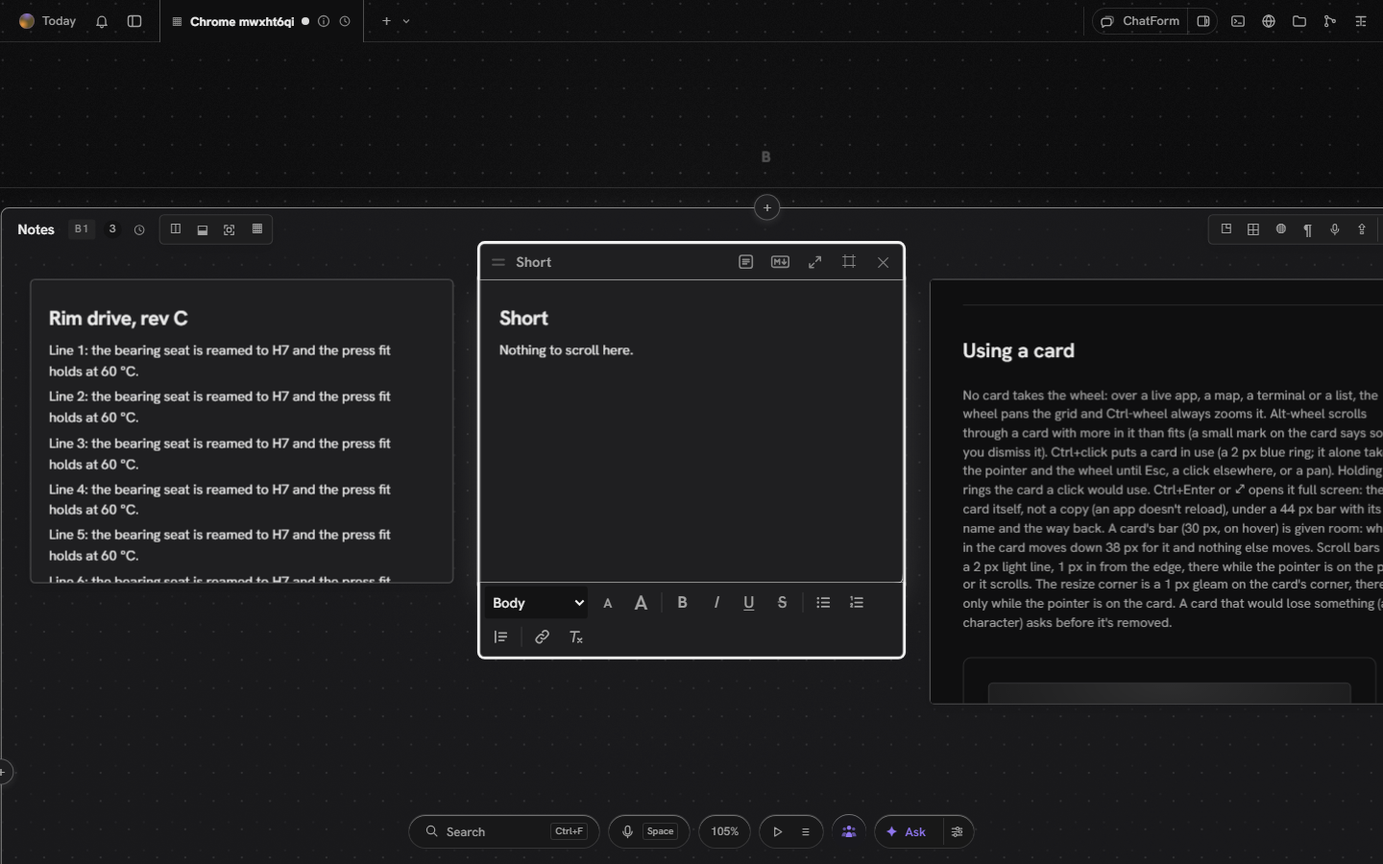
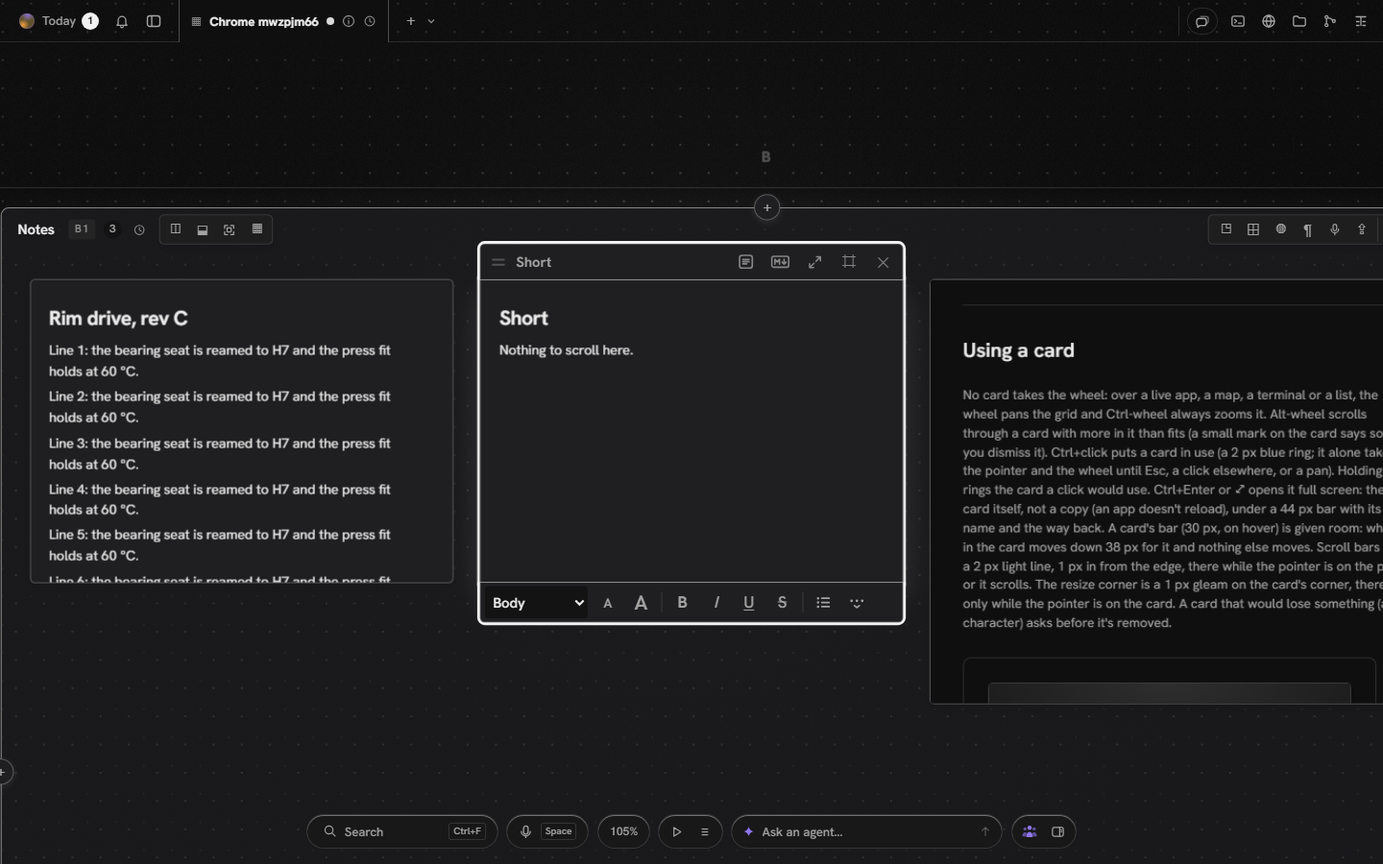
A terminal's card holds still under its bar; a narrow note's format bar fits its card again
Plan: card-chrome-elsewhere (part).

- A machine's card (a terminal, a desktop) gets the rising bar a note and a
  chat card have: the bar grows up out of the box and nothing inside
  moves, so a terminal's last line, where you type, no longer slides 38 px
  under the card's edge while it's hovered.
- Found on the way: a narrow note's one-line format bar (2026-11-26) ran up
  to 7 px past the card's right edge. Its fit counted each item's box but
  not its margins (a separator's 3 + 3, the size picker's 3). It counts
  them now; checked at 420 down to 240 px, the bar the card's width.
- e2e/card-chrome.spec is 8/8 again: a terminal check added; the rising
  bar is read once it has stopped moving; two checks that predated the
  2026-11-26 'box grown up' bar (flush inside the card's 1 px border) now
  hold that design; the card and its toolbar are read on one frame.

Checked: card-chrome.spec 8 passing; client 424 and typecheck green; in
the browser on fresh data, the toolbar width at six note widths. Not
looked at: Slack, huddle, kanban, file cards; the frame-rate check; a Mac
and a trackpad.

diff --git a/apps/client/e2e/card-chrome.spec.ts b/apps/client/e2e/card-chrome.spec.ts
@@ -21,6 +21,7 @@
  *     markdown. Every other card's bar still makes room: a live app's content
  *     moves down 38 px, its document neither reloaded nor resized, and a
  *     chapter card gets shorter from the top.
+ *     A terminal (a machine's card) holds still as a note does (2026-11-27): its bar rises over the card.
  *  2b. A chat card's bar rises the same way, and its paper comes off and back
  *     (`bare`, the note's button) with every layer of it.
  *  3. Alt-wheel (since 2026-11-17; it was Ctrl-wheel for a day) scrolls through a card with more in it than fits (a note, a
@@ -78,6 +79,19 @@ const world = (p: Page) => p.evaluate(() => document.querySelector<HTMLElement>(
 const zoomOf = (t: string) => Number(/scale\(([\d.]+)\)/.exec(t)?.[1] ?? NaN);
 /** the scale a card is drawn at on screen (zoom × its section's fit) */
 const scaleOf = (p: Page, id: string) => slot(p, id).locator(".frame-card").first().evaluate((el) => el.getBoundingClientRect().width / (el as HTMLElement).offsetWidth);
+/** a rising bar comes up 6 px as it fades in: read it once it has stopped moving, not when it's merely opaque */
+async function settled(p: Page, sel: string) {
+  let last = "";
+  await expect
+    .poll(async () => {
+      const now = JSON.stringify(await rect(p, sel));
+      const same = now === last;
+      last = now;
+      return same;
+    }, { timeout: 5_000, intervals: [120] })
+    .toBe(true);
+  return rect(p, sel);
+}
 const rect = (p: Page, sel: string) =>
   p.locator(sel).first().evaluate((el) => {
     const r = el.getBoundingClientRect();
@@ -109,6 +123,9 @@ test.beforeAll(async ({ browser }) => {
   await tool("add_section", { name: "Apps" });
   await tool("add_note", { section: "Apps", title: "Beside", markdown: "A note, so the app is a card and not the section's app." });
   await tool("add_panel", { section: "Apps", panel: "app", name: "Live", url: FRAME });
+  await tool("add_section", { name: "Machines" });
+  await tool("add_note", { section: "Machines", title: "Beside the terminal", markdown: "A note, so the terminal is a card and not the section's own." });
+  await tool("add_panel", { section: "Machines", panel: "machine", name: "Term", url: "http://127.0.0.1:9/ttyd" });
   await tool("add_section", { name: "Chat" });
   await tool("add_note", { section: "Chat", title: "Beside chat", markdown: "A note, so the chat is a card and not the section's own." });
   // a character, on this board: a card in "Characters · Animals"
@@ -133,7 +150,7 @@ test.beforeAll(async ({ browser }) => {
       },
     });
   });
-  for (const n of ["Long", "Short", "Beside", "Live", "Taro", "Design · cards", "Talk"]) {
+  for (const n of ["Long", "Short", "Beside", "Live", "Taro", "Design · cards", "Talk", "Term"]) {
     await expect.poll(() => find(ada, n), { message: `the card “${n}”` }).not.toBeNull();
     ids[n] = (await find(ada, n))!;
   }
@@ -290,8 +307,11 @@ test("2 · a note's bar is its box grown up and the note holds still; its toolba
   await expect(toolbar).toBeVisible();
   await settle(ada, 500);
   expect(await words()).toEqual(still);
-  const card = await rect(ada, sel(ids.Short, ".frame-card"));
-  const tb = await rect(ada, sel(ids.Short, ".rich-bar"));
+  // the card and its toolbar, read on one frame
+  const [card, tb] = await ada.evaluate(([a, b]) => [a, b].map((q) => {
+    const r = document.querySelector(q)!.getBoundingClientRect();
+    return { x: r.x, y: r.y, w: r.width, h: r.height, bottom: r.bottom, right: r.right };
+  }), [sel(ids.Short, ".frame-card"), sel(ids.Short, ".rich-bar")]);
   // at least 40 tall (a narrow note's takes a second row), flush on the card's foot, the card's width
   expect(tb.h).toBeGreaterThanOrEqual(40 * kw - 1);
   near(tb.y, card.bottom - 1 * kw, 1.5);
@@ -330,6 +350,22 @@ test("2 · a note's bar is its box grown up and the note holds still; its toolba
   const d1 = await rect(ada, sel(ids["Design · cards"], ".panel-inner"));
   near(d1.y - d0.y, PUSH * kd, 1);
   near(d1.bottom, d0.bottom, 1);
+  await leave(ada);
+
+  // a terminal (a machine's card) holds still like a note (2026-11-27, plan card-chrome-elsewhere): its bar rises over
+  // the card and nothing in it moves, so its last line, where you type, never slides under the card's edge
+  await frame(ada, ids.Term);
+  await settle(ada, 600);
+  await expect(slot(ada, ids.Term).locator(".frame-anchor")).toHaveClass(/bar-rise/);
+  const t0 = { inner: await rect(ada, sel(ids.Term, ".panel-inner")), card: await rect(ada, sel(ids.Term, ".frame-card")) };
+  await hover(ada, ids.Term);
+  await expect(slot(ada, ids.Term).locator(".frame-header")).toHaveCSS("opacity", "1");
+  const t1 = { bar: await settled(ada, sel(ids.Term, ".frame-header")), inner: await rect(ada, sel(ids.Term, ".panel-inner")), card: await rect(ada, sel(ids.Term, ".frame-card")) };
+  expect(t1.inner).toEqual(t0.inner);
+  expect(t1.card).toEqual(t0.card);
+  // the box grown up: flush on the card's top edge, inside its 1 px border
+  near(t1.bar.bottom, t1.card.y + 1 * (await scaleOf(ada, ids.Term)), 0.75);
+  await ada.screenshot({ path: `${RISE_SHOTS}/05_terminal-holds-still-night.png` });
   await leave(ada);
 
   // a live app: its frame slides down, and its document is neither reloaded nor resized
@@ -377,9 +413,10 @@ test("2b · a chat card's bar rises the same way, and its paper comes off and ba
   await hover(ada, id);
   await expect(s.locator(".frame-header")).toHaveCSS("opacity", "1");
   expect(await read()).toEqual(rest);
-  const bar = await rect(ada, sel(id, ".frame-header"));
+  const bar = await settled(ada, sel(id, ".frame-header"));
   near(bar.h, RISE.h * k, 1);
-  expect(bar.bottom).toBeLessThanOrEqual(rest.card.y + 0.5);
+  // flush on the card's top edge, inside its 1 px border (the box grown up, 2026-11-26)
+  near(bar.bottom, rest.card.y + 1 * k, 0.75);
   await ada.screenshot({ path: `${RISE_SHOTS}/05_chat-bar-risen-night.png` });
 
   // the note's button, words and glyph: Hide the background
@@ -712,7 +749,8 @@ test("day and night: the board's cards and #/design", async ({ browser }) => {
     const held = demo.locator(".frame-anchor.is-hover").first();
     const [hb, hc] = [(await held.locator(".frame-header").boundingBox())!, (await held.locator(".frame-card").boundingBox())!];
     near(hb.height, RISE.h, 0.75);
-    expect(hb.y + hb.height).toBeLessThanOrEqual(hc.y);
+    // the box grown up (2026-11-26): flush on the card's top edge, inside its 1 px border
+    near(hb.y + hb.height, hc.y + 1, 0.75);
     const tb = (await demo.locator(".rich-bar-slot.is-under .rich-bar").boundingBox())!;
     near(tb.height, 40, 0.75);
     await settle(p, 500);

diff --git a/apps/client/src/components/RichText.tsx b/apps/client/src/components/RichText.tsx
@@ -465,8 +465,14 @@ function useToolbarFit(keys: string[], paused: boolean) {
     // what's on the line now, in order (the More button, its menu, last)
     const kids = Array.from(bar.children) as HTMLElement[];
     // the line is always the first items, in order
+    // an item's room on the line is its box and its margins (a separator's 3 + 3, the size picker's 3): without
+    // them a narrow note's line ran a few px past the card's edge (2026-11-27, e2e/card-chrome.spec)
+    const span = (el: HTMLElement) => {
+      const cs = getComputedStyle(el);
+      return el.offsetWidth + (parseFloat(cs.marginLeft) || 0) + (parseFloat(cs.marginRight) || 0);
+    };
     kids.forEach((el, i) => {
-      if (i < ks.length && !el.matches("[data-rich-more], .rich-more-menu")) widths.current.set(ks[i], el.offsetWidth);
+      if (i < ks.length && !el.matches("[data-rich-more], .rich-more-menu")) widths.current.set(ks[i], span(el));
     });
     const bs = getComputedStyle(bar);
     const hs = getComputedStyle(holder);
@@ -477,7 +483,8 @@ function useToolbarFit(keys: string[], paused: boolean) {
     const all = ks.reduce((s, key) => s + w(key), 0) + gap * (ks.length - 1);
     let n = ks.length;
     if (all > room) {
-      const moreW = (bar.querySelector<HTMLElement>("[data-rich-more]")?.offsetWidth ?? 32) + gap;
+      const moreEl = bar.querySelector<HTMLElement>("[data-rich-more]");
+      const moreW = (moreEl ? span(moreEl) : 32) + gap;
       let used = 0;
       n = 0;
       while (n < ks.length) {

diff --git a/apps/client/src/panels/PanelView.tsx b/apps/client/src/panels/PanelView.tsx
@@ -253,7 +253,9 @@ export const PanelView = memo(function PanelView({ panel, pos, isActive, getScal
       bodyClass={`panel-body panel-${panel.panel}`}
       cardClass={`panel-card kind-${panel.panel}${panel.status ? ` status-${panel.status}` : ""}${chat && panel.bare ? " is-bare" : ""}`}
       // a chat card's bar rises above it and the conversation holds still, as a note's does (2026-11-25)
-      barRise={chat}
+      // a terminal or a desktop keeps still too (2026-11-27, plan card-chrome-elsewhere): its bar rises over the
+      // card, so its last line (where you type) never slides under the card's edge while it's hovered
+      barRise={chat || panel.panel === "machine"}
       data={{ "panel-id": panel.id }}
       openUrl={panel.url}
       overlay={panel.ports.length ? <div className="port-rail">{ports}</div> : null}

diff --git a/SPEC.md b/SPEC.md
@@ -2,7 +2,7 @@
 
 > The company brain of Form Industries: one shared grid where people, the apps we build, and the agents that work with us meet. This document is the plan every session (human or agent) builds from. **DESIGN.md** is its visual contract. Status is honest: _done_ means it ran and was checked; _partial_ and _stub_ say what's missing.
 
-Last updated 2026-11-27 (an agent's answer under its bar on the grid's council; a viewer on the studio's pipeline checked in a browser; the council's conversation kept on the server with each agent's answer, §3; Rune holds 60 fps on 300 notes, level with the web renderer, §7; the server panel says when the server runs older code than the app, with Restart, §7; a sub-grid put back into its section, the undo of Open as its own grid, and hosted-app sections offer it, §3; pings: a sound, the bell opening the card, Ping in the right-click, who has worked on a grid, §0.25; the updates panel keeps the whole release history, this app's version set large with its latest changes, §0.24; note pages: a note of its own in the side menu's Notes, the same note on any grid, written in blocks, docs/notes.md; the grid behind the grid: the agents' work trail after agenttrail, T3's agents told who else is at work, §0.23; the timeline live and whole, a note and a chat card as one box, §0.22; the timeline of every grid and section, voice and video notes, menus that rise and a chat card without its paper §0.21; a run's trace on the council, the silhouette that adds, CAD cards fed by an app, card copy and paste §0.19; main and the edges branch brought together; one note: the text box and the markdown note are the same card, §3; the council at work, kinds of agent and code mode §0.17; whole-app usability, legibility, spacing & motion pass §0.15; ChatForm second round §0.14; progressive cached images & hosted ChatForm readiness §0.13) · **0.3.0** (`docs/blog/0.3.0.md`; the desktop app updates itself from here on, and from 2026-11-13 every push to `main` publishes the next desktop release by itself) · branch `main` · evidence in `docs/evidence/` (latest: `2026-11-22_usability-pass/`, §0.15) · release notes in `docs/blog/` and Settings → Releases · **the plan is a kanban board**: `docs/plan.json`, GitHub issues, and Settings → Plan in the app (§8)
+Last updated 2026-11-27 (a terminal's card holds still under its bar, and a narrow note's format bar fits its card again; an agent's answer under its bar on the grid's council; a viewer on the studio's pipeline checked in a browser; the council's conversation kept on the server with each agent's answer, §3; Rune holds 60 fps on 300 notes, level with the web renderer, §7; the server panel says when the server runs older code than the app, with Restart, §7; a sub-grid put back into its section, the undo of Open as its own grid, and hosted-app sections offer it, §3; pings: a sound, the bell opening the card, Ping in the right-click, who has worked on a grid, §0.25; the updates panel keeps the whole release history, this app's version set large with its latest changes, §0.24; note pages: a note of its own in the side menu's Notes, the same note on any grid, written in blocks, docs/notes.md; the grid behind the grid: the agents' work trail after agenttrail, T3's agents told who else is at work, §0.23; the timeline live and whole, a note and a chat card as one box, §0.22; the timeline of every grid and section, voice and video notes, menus that rise and a chat card without its paper §0.21; a run's trace on the council, the silhouette that adds, CAD cards fed by an app, card copy and paste §0.19; main and the edges branch brought together; one note: the text box and the markdown note are the same card, §3; the council at work, kinds of agent and code mode §0.17; whole-app usability, legibility, spacing & motion pass §0.15; ChatForm second round §0.14; progressive cached images & hosted ChatForm readiness §0.13) · **0.3.0** (`docs/blog/0.3.0.md`; the desktop app updates itself from here on, and from 2026-11-13 every push to `main` publishes the next desktop release by itself) · branch `main` · evidence in `docs/evidence/` (latest: `2026-11-22_usability-pass/`, §0.15) · release notes in `docs/blog/` and Settings → Releases · **the plan is a kanban board**: `docs/plan.json`, GitHub issues, and Settings → Plan in the app (§8)
 
 ---
 
@@ -838,7 +838,7 @@ Native full OS VMs (2026-11-20, Josh): **implemented / Review; real QEMU runs on
 | **One note** (2026-11-24, Josh: "the note object and the markdown object should be the same object … WYSIWYG features for the primary interface … a markdown option at the top right … the size of the text … an icon that allows you to make the background invisible. Please convert any note or markdown note to this format") | **There is one note.** The *Text box* (formatted text) and the *Markdown note* (source, opened by a double-click) were always one card with one markdown text under them, told apart by a flag (`NoteDoc.rich`). The flag is retired: every note is written as formatted text, in place, with the toolbar (`components/RichText.tsx`), and is kept as markdown in the note's shared text. **Markdown** is a button in the card's bar, at its right: it turns the card to its markdown (CodeMirror on the same shared text, per keystroke, named carets, your own undo; `components/noteEditor.ts`) and back; it stays up until the button, Esc or ⌘↵, and it is this window's view, so one person can read the markdown while another writes the formatted text. A viewer can look. **Text size** is in the toolbar (a small A, a large A): five steps for the whole note, kept on the card (`size`). **Background** is the sheet button beside Markdown: it takes the paper, edge and shadow away (`bare`), so the words stand on the section. **Converting.** Nothing had to be rewritten: every existing note, of either kind, on every board, opens as this note the moment the client updates, because both kinds already kept markdown. A note is not rewritten by being looked at or clicked in (markdown written by hand rarely reads back letter for letter, so the surface writes only once the words change; `e2e/section-agents.spec.ts` holds it to that). **Where it's made.** The section menu's Add has **Note** (it had Text box and Markdown note), an empty section's Write, the section toolbar and the command bar: empty, with the caret in it. `add_note` takes `text_size` and `background: false`, and still takes `text_box` (ignored). | review: checked in two browsers; a person checks it in the desktop app | **Checked.** `npm test` (the server's `add_note` test, the menu's), typecheck, and in two real browsers `e2e/section-agents.spec.ts` (6: writing together, size, background and markdown for both people, hand-written markdown left alone, a drag selecting a note's words, #/design day and night), `card-chrome` (7), `together` (7), `renders` (1). Evidence: `docs/evidence/2026-11-24_one-note/` (`NOTES.md`). `pointer` checks 1 to 2b pass. **Not checked:** `pointer` check 3 (the section's menu) fails on the Live column and the icon row, which other work changed; its Add column is the one Note, but its key walk hasn't run. Also Rune in a browser (§7), and the desktop app. |
 | **The timeline** (2026-11-25, §0.21) | Every grid's history and what happened on it, in six lanes; a clock in the grid's tab and beside every section's name; scrub the grid or one section into the past, for yourself only | **implemented / Review** | `docs/timeline.md`. Server `timeline.ts` (history with checkpoints and a budget, events by kind, `read_timeline`); client `timeline/`. Live since 2026-11-26: an open timeline hears every change within seconds, drags and resizes are events, each event is stamped with the history step that holds it (§0.22). Looks only: nothing is restored. Hosted apps stay live over the past; a section that has gone is listed, not drawn; Rune doesn't make room for the band. Not checked on a busy board, in the desktop app, or against a chat server of its own (§7) |
 | **Voice and video notes** (2026-11-25, §0.21) | Record a short note in a section and leave it as a card to be played back; on the timeline in its own lane | **implemented / Review** | `notes/`, `MediaDoc.note`. Up to 5 min of voice, 2 of video; the device opens only on Record; the clip is an archived upload. Chromium only so far: WebKit and the Mac app unverified (§7). No transcript; not addressed to anyone |
-| **Menus that rise; a chat card without its paper** (2026-11-25, §0.21) | A note's and a chat card's bar (36 px) rises above the card and the formatting toolbar (40 px) hangs under it: the content holds still. Background on a chat card's bar | **implemented / Review** | `ObjectFrame` `barRise`; other cards keep the bar that makes room. While a bar or toolbar is up, the section's body stops clipping at that edge (`:has`): not measured on a heavy board |
+| **Menus that rise; a chat card without its paper** (2026-11-25, §0.21) | A note's, a chat card's and (2026-11-27) a machine's bar (36 px) rises above the card and the formatting toolbar (40 px) hangs under it: the content holds still. Background on a chat card's bar | **implemented / Review** | `ObjectFrame` `barRise`; other cards keep the bar that makes room. While a bar or toolbar is up, the section's body stops clipping at that edge (`:has`): not measured on a heavy board |
 | **Foundation's own T3 instance** (2026-11-12) | The agent harness behind the agents pane: T3 Code's server, the same unmodified prebuilt `t3` 0.0.44 Vision Code runs, started by Foundation in a home of its own (`<data>/t3`, port 15783 upward, 127.0.0.1 only), apart from Vision Code's (`apps/server/src/t3host.ts`). It's a third-party program, so only a person starts or stops it, from their browser, and not a viewer (`/api/t3host/start`, `/stop`: `requirePerson`). The start is Vision's: one line of JSON on stdin (`--bootstrap-fd 0`) with a one-time token, exchanged for a bearer that stays in this process's memory, then a socket ticket and two streams, `subscribeServerConfig` (providers) and `orchestration.subscribeShell` (threads). A new home starts supervised (`approval-required`). The agents pane's foot shows **this computer's agents**: each agent T3 has (Claude, Codex, Cursor, Grok, OpenCode, Antigravity, and any extra named instance) with how it stands (ready and on which plan, needs sign-in, not installed, off) and the threads it's working on | partial: lists agents and their work; asking one and adding Kimi or DeepSeek are the next row. **Not built**: signing an agent in from here (Codex, a Claude instance), installing one | `test/t3host.test.ts` (7) against a stand-in `t3` (the same stdin line, token exchange, ticket and stream messages): shapes read and odd ones skipped; its own home, loopback, no browser, supervised seed kept if a person changed it; agents and threads follow T3; Stop frees the port; a T3 that dies says so; a missing program says where. **The real `t3.exe` on this PC** (2026-11-12, a temporary home, no thread started): running in about a second, T3 0.0.44 on :15783, six agents listed: Claude 2.1.319 ready on the Claude Team subscription with 12 models, Codex not installed (`codex` isn't on PATH), Cursor, Grok, OpenCode and Antigravity off; stopped clean. `e2e/section-crew.spec.ts` (+2): off until Start, a start that can't says why, a bearer is refused; `#/design` day and night (`docs/evidence/2026-11-12_section-agents/` 06, 07). The running state hasn't been seen in the app itself with the real T3, only on `#/design` and through the server module |
 | **Ask one of this computer's agents; Kimi and DeepSeek, cloud and local** (2026-11-12) | **Ask** on a ready agent in the agents pane starts a thread on it in Foundation's T3 for the section in use (or the one the pane was opened from): supervised (`approval-required`), on the model picked, in the board's own folder (`<data>/t3-work/<board>`, one T3 project per board). It runs a model on someone's plan or key, so it needs a person's press and a writer of the board (`/api/t3host/threads`: `requirePerson`, `requireWriter`). The agent comes onto the board as one of the crew under its own name (Claude, Kimi; a second is *Claude 2*), aimed at the section, so it's in that section's group and in the pane for everyone, and follows its thread: working, *waiting for a person in T3*, then done (or failed, or stopped) and gone (`apps/server/src/t3threads.ts`). Its thread row has **Open** (a one-time link into T3's own page, where approvals are answered and the transcript reads) and **Stop** (the asker or an admin). **More agents**: T3 has no Kimi or DeepSeek driver, so each is added as another instance of T3's Claude agent pointed at an Anthropic-compatible address, with a Claude folder of its own (`<data>/t3/claude-homes/<id>`), never this computer's sign-in. Two kinds, kept apart in the pane: **in the cloud** (the vendor's https address and a person's API key, which goes straight to T3 marked sensitive; Foundation doesn't store, log or return it) and **on this computer** (a model server on a loopback address, Ollama's by default, a model that's there, no key). An admin adds or removes them, in person (`/api/t3host/agents`); Foundation keeps only where each runs (`<data>/t3/foundation-agents.json`) | partial: built and checked against a stand-in T3; **no real thread has been started** (it spends a turn: a person's press), **no real key has been used**, and **there's no local model server on this PC** (nothing answers on :11434), so cloud and local agents are both unproven end to end. Reading and writing the board is the next row | `test/t3threads.test.ts` (10) and `test/t3host.test.ts` (7), stand-in `test/t3-standin.mjs`: the commands sent (project once per board, `thread.turn.start` with the agent, model, supervised); presence joins under its own name, follows the thread and leaves nobody behind (done, failed, stopped, T3 stopped, a turn refused, a full board said before anything is sent); only the asker or an admin stops; cloud needs https and a key, local a loopback address and a model; the key is in nothing Foundation writes or says; adding a second agent keeps the first one's key; only added agents can be removed. **The real `t3.exe`** (temporary home, a made-up key, no thread): it took both instances and listed them ready, kept the key out of its plain files, served its own page at `/` and `/pair`, and removed one cleanly; T3 doesn't check a key until a turn runs, so *ready* there means installed, not that the key works. `e2e/section-crew.spec.ts` (5), three people in Chromium against the stand-in: Kai started T3, asked Claude in Depot with a model picked, Claude's face joined Depot's tab on Kai's and Ada's screens and left when the thread ended; a member has no Add; an admin added Kimi (cloud) and DeepSeek (this computer), each in its group, the key nowhere on the page or in `/api/t3host`; `#/design` day and night (`docs/evidence/2026-11-12_section-agents/` 06 to 10) |
 | **An agent asked through T3 reads and writes the board** (2026-11-13) | Each ask gets a folder of its own (`<data>/t3-work/<board>/<ask>`) holding a tool file, `.foundation-mcp.json`: Foundation's tool server on this computer, as that ask's crew member, on that board, with an agent session of its own for the person who asked (12 h at most). When T3 starts, Foundation puts `--mcp-config .foundation-mcp.json --allowedTools mcp__foundation --strict-mcp-config` on each Claude-driven agent's launch line (Claude, and Kimi and DeepSeek when added): the file is found in the folder the thread works in, the board's tools run without an approval each (anything else a supervised thread would change still waits for a person in T3), and this computer's other Claude connectors stay out of reach. The brief tells the agent where it is, gives it the board as it stands, and says to put its work on cards in its section. So its cards land there under its own name, its cursor aims like any of the crew's, and its writes are the asker's (a viewer can't ask). When the thread ends, however it ends, the session is revoked and the file removed. An agent of another kind (Codex), or one whose launch line a person changed in T3, gets no pass and is told it works in its folder; the pane says which before you ask (*writes the board* / *works in its folder*) (`apps/server/src/t3threads.ts`, `t3host.ts`: `ensureBoardTools`) | partial: proven up to the model. **Not seen: a real agent using the tools** (that needs a real turn, a person's press). Whether T3's Claude driver passes the launch line through as expected with a thread running is read from its source (`ClaudeAdapter.ts`: `extraArgs`), not from a run | `test/t3threads.test.ts` (12): the launch line set at start and on added agents; the tool file's address, board, crew id and session (an agent's, for the asker); a card made with that pass lands in the section as *Claude*'s; someone else's pass can't act as that agent; the session is gone and the file removed when the thread finishes, is stopped or is refused; the brief with and without tools. **The real `t3.exe`** (temporary home, no thread): took the launch line on its Claude agent and still listed it ready on the Team subscription. `e2e/section-crew.spec.ts`: the stand-in T3 used the tool file in its folder as an agent would (one call to Foundation's tool server), and *Checked by Claude* appeared in Depot, made by Claude, on Kai's and Ada's screens (`docs/evidence/2026-11-12_section-agents/07b`) |
@@ -857,7 +857,7 @@ Native full OS VMs (2026-11-20, Josh): **implemented / Review; real QEMU runs on
 | **The council is a band** (2026-11-16; **superseded 2026-11-17** by *The council stands on its section's edge*, below) | No longer how it is: there is no band, `ui.councilH` is no longer set and nothing is pushed down. As built on 2026-11-16: The grid's council is a band under the top bar across the open paper; the grid starts below it (`ui.councilH` in the floor's inset). A section's is a band at the top of its section, inside it (a portal into the section's card); the header and cards move down under it. Agents stand along its lower edge, cut off by it. Esc closes it and nothing else | superseded 2026-11-17 (it was done; the 236 px wire offset went with the band) | `e2e/council.spec.ts`, `e2e/section-agents.spec.ts`; `03`, `06` |
 | **Adding an agent** (2026-11-16) | ＋ on a council opens the agents panel on *Add an agent*: **who** (Claude, ChatGPT, Gemini, Kimi, DeepSeek, a local model; the list is kept ready, `lib/agentsAvailable.ts`), **connect** (start this computer's agents, a key or a local model for Kimi and DeepSeek, or how to sign the agent's program in, with Check again), **avatar** (the approved characters; an abstract one nobody wears is chosen already), **add** (to the section or the grid; one of this computer's agents also gets a session named for it, `POST /api/t3host/threads`). **Background**: this computer's agents' sessions and the server's own runs, with Open, Follow, Stop and Open T3. Since 2026-11-17 **connect** is guided ways with numbered steps and the panel opens on a Council tab (rows *Adding an agent: guided ways* and *The agents panel's Council tab*) | done for Claude (script runtime) end to end; the other five paths were looked at only as far as *this computer's agents are off* and never completed; no sign-in happens inside Foundation | `e2e/council.spec.ts`; `04`, `05` |
 | **The studio's pipeline; approval** (2026-11-16) | The Character studio has a middle row, *Pipeline · <Set>*: a flow card (`panel: "pipeline"`) of six nodes with what each costs and how many of the set's characters are at it, and **New character** to start one there; an older studio gets the row once (`upgradeStudio`). A character a person makes is **pending**; finished, its card offers Approve and Archive, and only approved (or older, unmarked) finished characters are offered as avatars (`characterChoosable`; `POST …/characters/:panel/approval`, a person's). Since 2026-11-17 the flow is nine node cards joined by the grid's wires, not one flow card (row *The studio's pipeline as nodes*) | done | `test/studio-pipeline.test.ts`, `e2e/council.spec.ts`; `07` |
-| | **A card's bar is given room** (2026-11-16, Josh: "The Cards roll over menu covers up the card contents, it should push it down") | partial | While the hover bar shows, the card's content sits 38 px lower; the card's box, its section, its ports and its corner don't move. Lists and notes get shorter from the top, pages and terminals slide (`ObjectFrame.tsx`, `.bar-reflow` / `.bar-slide`). Checked in Chromium on a note, a live app (no reload, no resize), a character and a design chapter; Slack, huddle, kanban, machine and file cards not looked at; no frame-rate run |
+| | **A card's bar is given room** (2026-11-16, Josh: "The Cards roll over menu covers up the card contents, it should push it down") | partial | While the hover bar shows, the card's content sits 38 px lower; the card's box, its section, its ports and its corner don't move. Lists get shorter from the top, pages and files slide (`ObjectFrame.tsx`, `.bar-reflow` / `.bar-slide`). **A machine's card (a terminal, a desktop) holds still since 2026-11-27**: its bar rises over the card like a note's, so a terminal's last line no longer slides under the card's edge while hovered (`e2e/card-chrome.spec.ts`). Checked in Chromium on a note, a live app (no reload, no resize), a character, a design chapter and a terminal; Slack, huddle, kanban and file cards not looked at; no frame-rate run |
 | | **Resize corner: a gleam, on hover** (2026-11-16) | done | Nothing at rest; a 1 px arc on the card's corner while the pointer is on it, blue under the pointer, the same 22 px to grab (`.map-resize`). Chromium, day and night |
 | | **Removing a character** (2026-11-16, Josh: "I attempted to delete Taro and couldn't … Allow me to remove Taro") | partial | The card's ✕ asks first ("Remove Taro? Its pictures and files stay in the archive."); removed, the server takes the character out of the board's map with its card, so every open browser's roster and council drop it at once (before, it stayed until a reload); its row and files stay. Checked in Chromium with two people (one a viewer) and in `characters.test.ts`. The ✕ doing nothing at all was **not reproduced**; not tried in the desktop window. **2026-11-17**: looked for again with a real mouse at drawn scales 1.0, 0.6 and 0.3 and again no press was eaten (`e2e/pointer.spec.ts`); what was found is that the ✕ is 7.8 px at 0.3 with the drag handle all round it, so a near miss picks the card up. Since that day the ✕ keeps a 26 px press area on the screen however small the card is drawn (row *A card's ✕ keeps a 26 px press*) |
 | | **Alt-wheel scrolls through a card; a 2 px scroll line** (2026-11-16; Alt since 2026-11-17) | done in Chromium | **⌘/Ctrl-wheel always zooms; Alt-wheel scrolls through a card** (2026-11-17, Josh: "Ctrl Zoom should always zoom and alt+scroll should scroll a card -> show a small icon on roll-over, allow user to dismiss this hint"; it was ⌘/Ctrl-wheel for a day): over a card with more in it than fits, Alt-wheel scrolls that content (nearest pane with room, then outward; ⇧ sideways) and holds at its end; elsewhere Alt changes nothing (`lib/cardScroll.ts`). A 20 px mark on such a card says so when the pointer rests on it; its ✕ dismisses it for good on the device and it stops after three Alt-scrolls (`lib/scrollHint.ts`). Checked in Chromium on notes, a character and a design chapter (`e2e/pointer.spec.ts`, `e2e/card-chrome.spec.ts`, `test/card-scroll.test.ts`); **not** on a Mac, a real trackpad, Firefox, the desktop window, or sideways in a browser; a terminal and a live page still need "in use". Scroll bars everywhere are a 2 px square-cornered line at 28 % ink, 1 px in from the edge, shown only under the pointer or for 0.7 s after a scroll |
